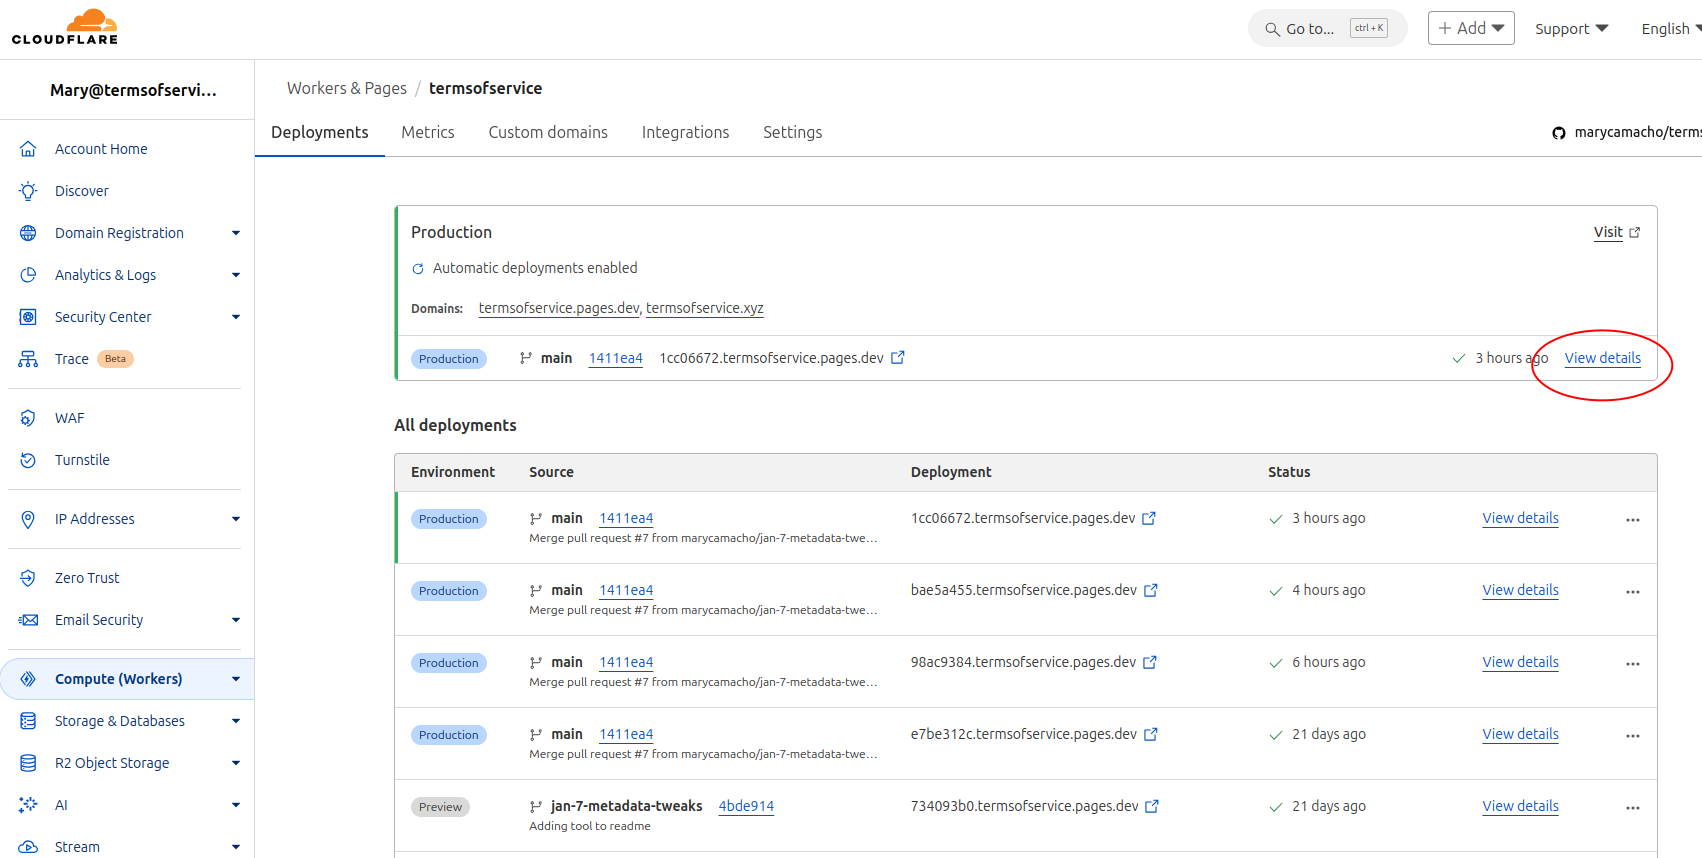
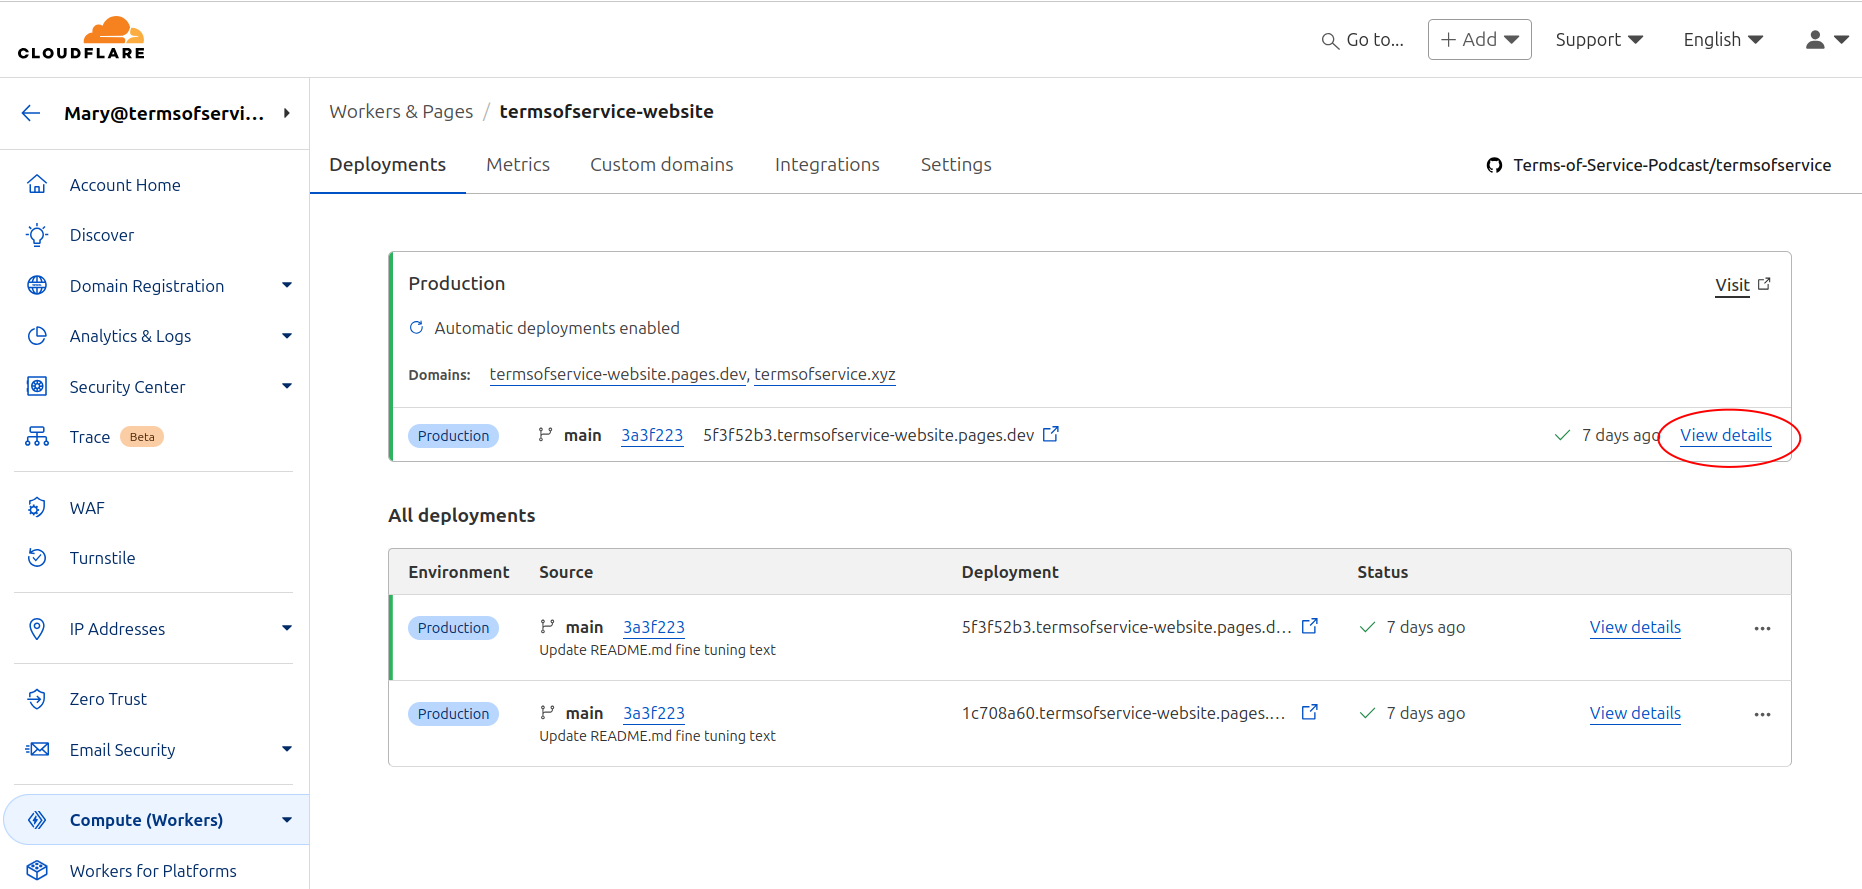
Updating ReadMe post recreatating deploy

diff --git a/README.md b/README.md
@@ -24,7 +24,7 @@ To test the episode pages these tools are helpful
 The site is hosted on Cloudflare. When a new episode is published or something is edited in the microfeed system, you have to tell
 Cloudflare to redeploy the site. The steps are:  
 - Login to `https://dash.cloudflare.com/login` with a login that has access to admin the TOS site (I use `mary@termsofservice.xyz`)
-- Once logged in, in the same browser, put `https://dash.cloudflare.com/52ade2308bac0e96e89e4e762c2a398f/pages/view/termsofservice` in the address
+- Once logged in, in the same browser, put `https://dash.cloudflare.com/52ade2308bac0e96e89e4e762c2a398f/pages/view/termsofservice-website` in the address
   and press `enter`. The result should look like this:
   ![Cloudflare TOS Admin](readme-assets/cloudflare-tos-admin.png) 
 
